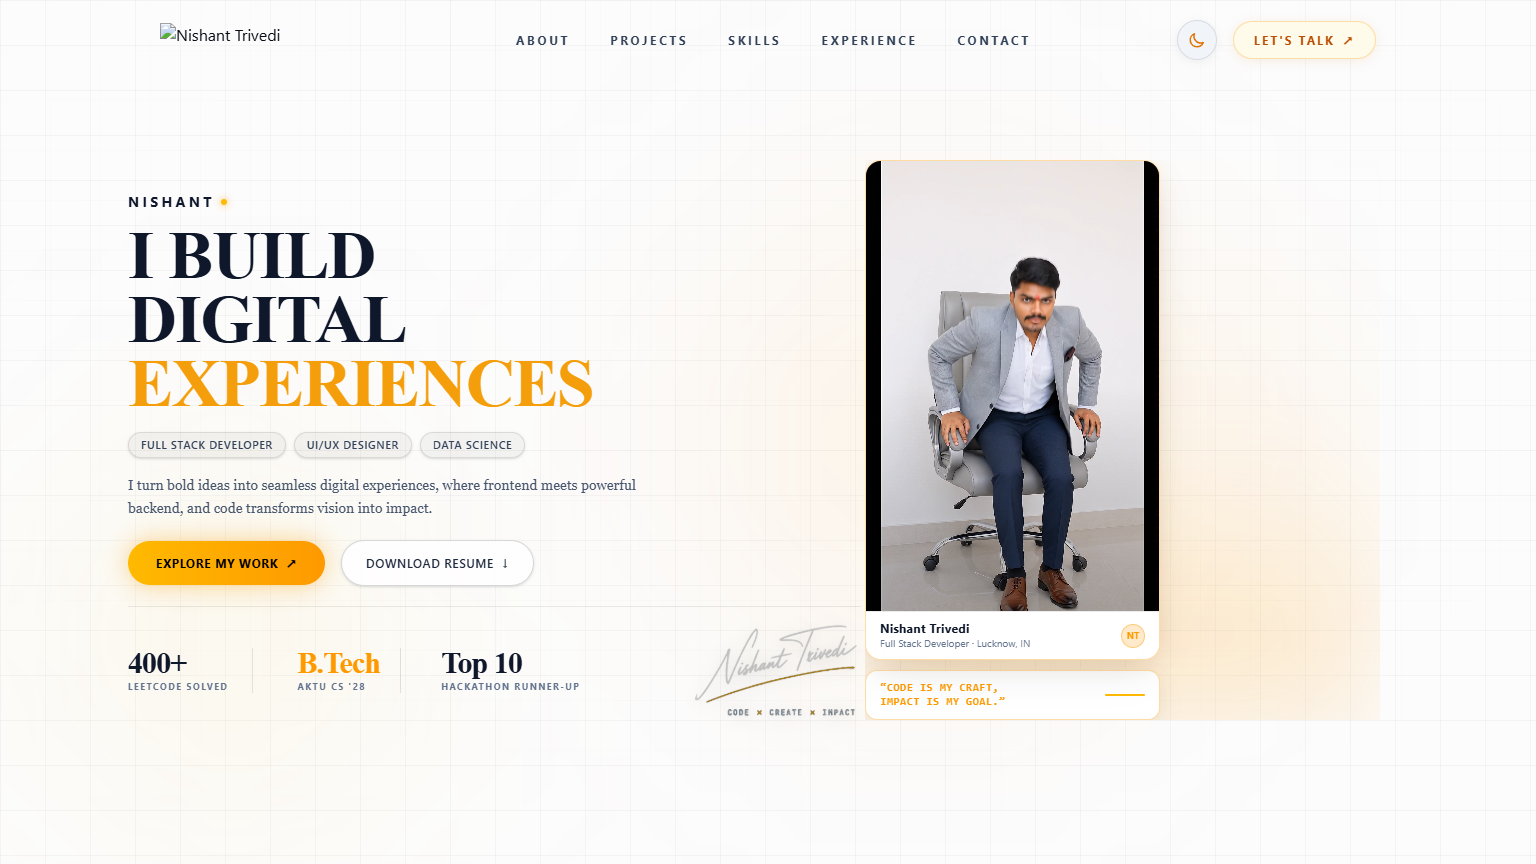
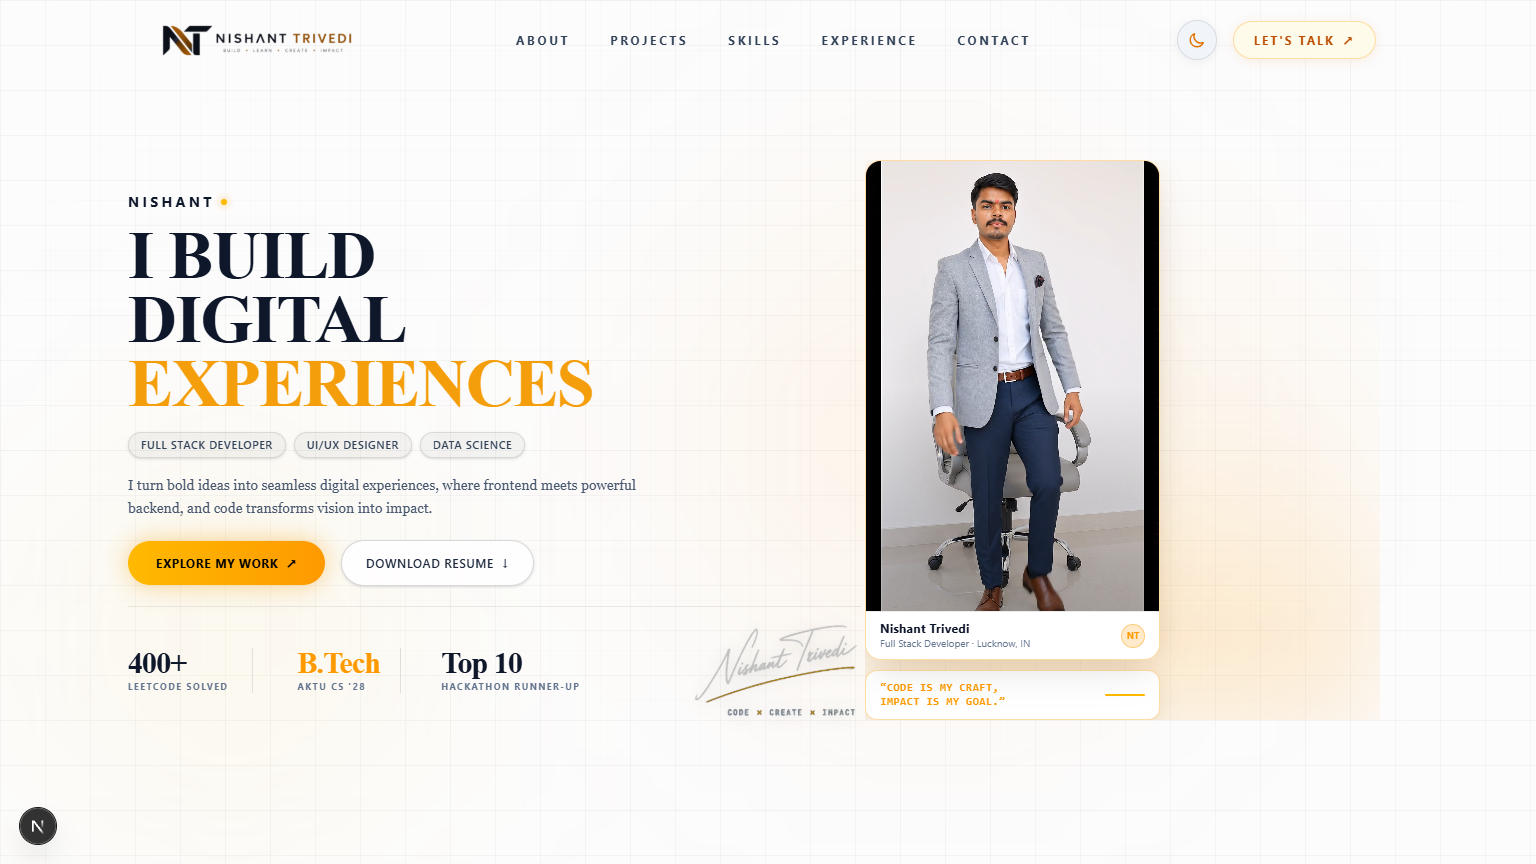
making the npm working

Changed region(s): [[0.5938, 0.1875, 0.7188, 0.7188], [0.0938, 0.0312, 0.2188, 0.0625], [0.0, 0.9375, 0.0625, 1.0]]

diff --git a/scripts/create_light_logo.py b/scripts/create_light_logo.py
@@ -1,0 +1,60 @@
+from PIL import Image
+import os
+
+dark_path = "public/images/navbar-logo-dark.png"
+light_path = "public/images/navbar-logo-light.png"
+icon_path = "public/images/icon-logo.png"
+
+if not os.path.exists(dark_path):
+    print("Error: dark logo not found at", dark_path)
+    exit(1)
+
+dark_img = Image.open(dark_path).convert("RGBA")
+print(f"Loaded dark logo: size={dark_img.size}")
+
+# Create light version
+light_img = Image.new("RGBA", dark_img.size, (0, 0, 0, 0))
+
+for y in range(dark_img.height):
+    for x in range(dark_img.width):
+        r, g, b, a = dark_img.getpixel((x, y))
+        if a < 10:
+            continue
+        
+        # Check if pixel is amber/orange vs white/silver
+        # In dark logo: amber has r high, b low: r - b > 40 and r > 120
+        if r - b > 40 and r > 120:
+            # Amber part - deepen slightly for crisp contrast on light background
+            scale = min(1.0, (r * 0.299 + g * 0.587 + b * 0.114) / 180.0)
+            nr = int(217 * scale)
+            ng = int(119 * scale)
+            nb = int(6 * scale)
+            light_img.putpixel((x, y), (nr, ng, nb, a))
+        else:
+            # White/silver part -> transform into rich obsidian dark (#090d16 / #0f172a)
+            # Preserve anti-aliased edge alpha
+            brightness = (r + g + b) / 3.0 / 255.0
+            nr = int(9 + (1.0 - brightness) * 30)
+            ng = int(13 + (1.0 - brightness) * 30)
+            nb = int(22 + (1.0 - brightness) * 35)
+            light_img.putpixel((x, y), (nr, ng, nb, a))
+
+light_img.save(light_path)
+print(f"Successfully saved {light_path} (exists={os.path.exists(light_path)}, size={os.path.getsize(light_path)} bytes)")
+
+# Also create icon-logo.png from monogram if needed
+monogram_crop = dark_img.crop((20, 20, 500, 270))
+mono_bbox = monogram_crop.getbbox()
+if mono_bbox:
+    mono = monogram_crop.crop(mono_bbox)
+    sq_size = 512
+    sq_dark = Image.new('RGBA', (sq_size, sq_size), (0, 0, 0, 0))
+    scale_factor = min(400.0 / mono.width, 400.0 / mono.height)
+    new_w = int(mono.width * scale_factor)
+    new_h = int(mono.height * scale_factor)
+    mono_resized = mono.resize((new_w, new_h), Image.Resampling.LANCZOS)
+    sq_dark.paste(mono_resized, ((sq_size - new_w) // 2, (sq_size - new_h) // 2), mono_resized)
+    sq_dark.save(icon_path)
+    sq_dark.save("public/favicon.png")
+    sq_dark.save("app/icon.png")
+    print("Successfully saved icon-logo.png, favicon.png, and app/icon.png!")
